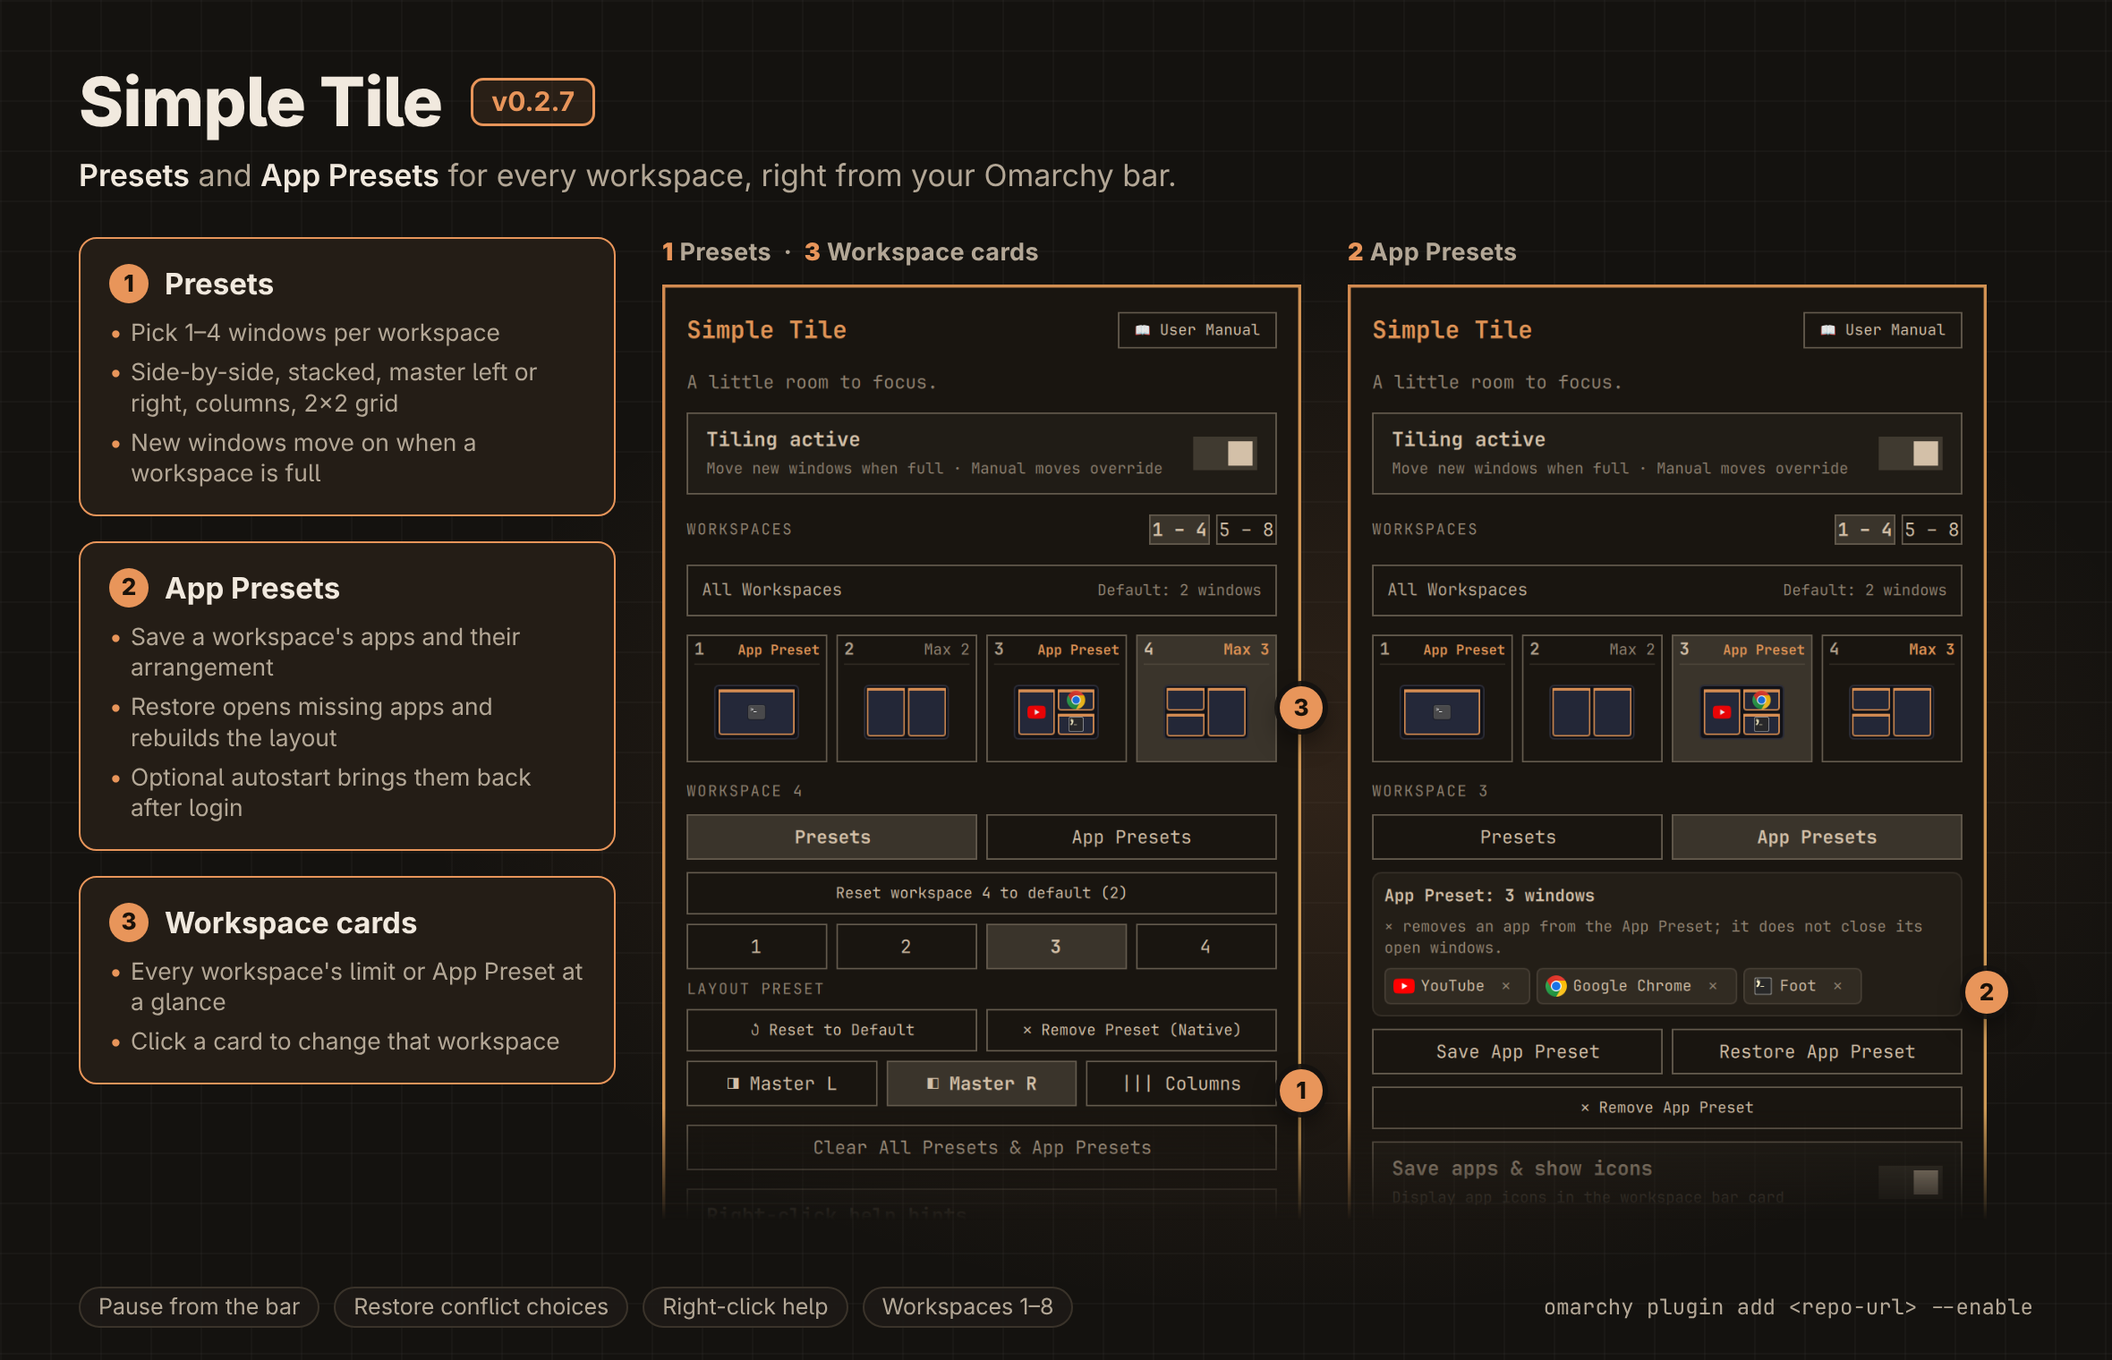
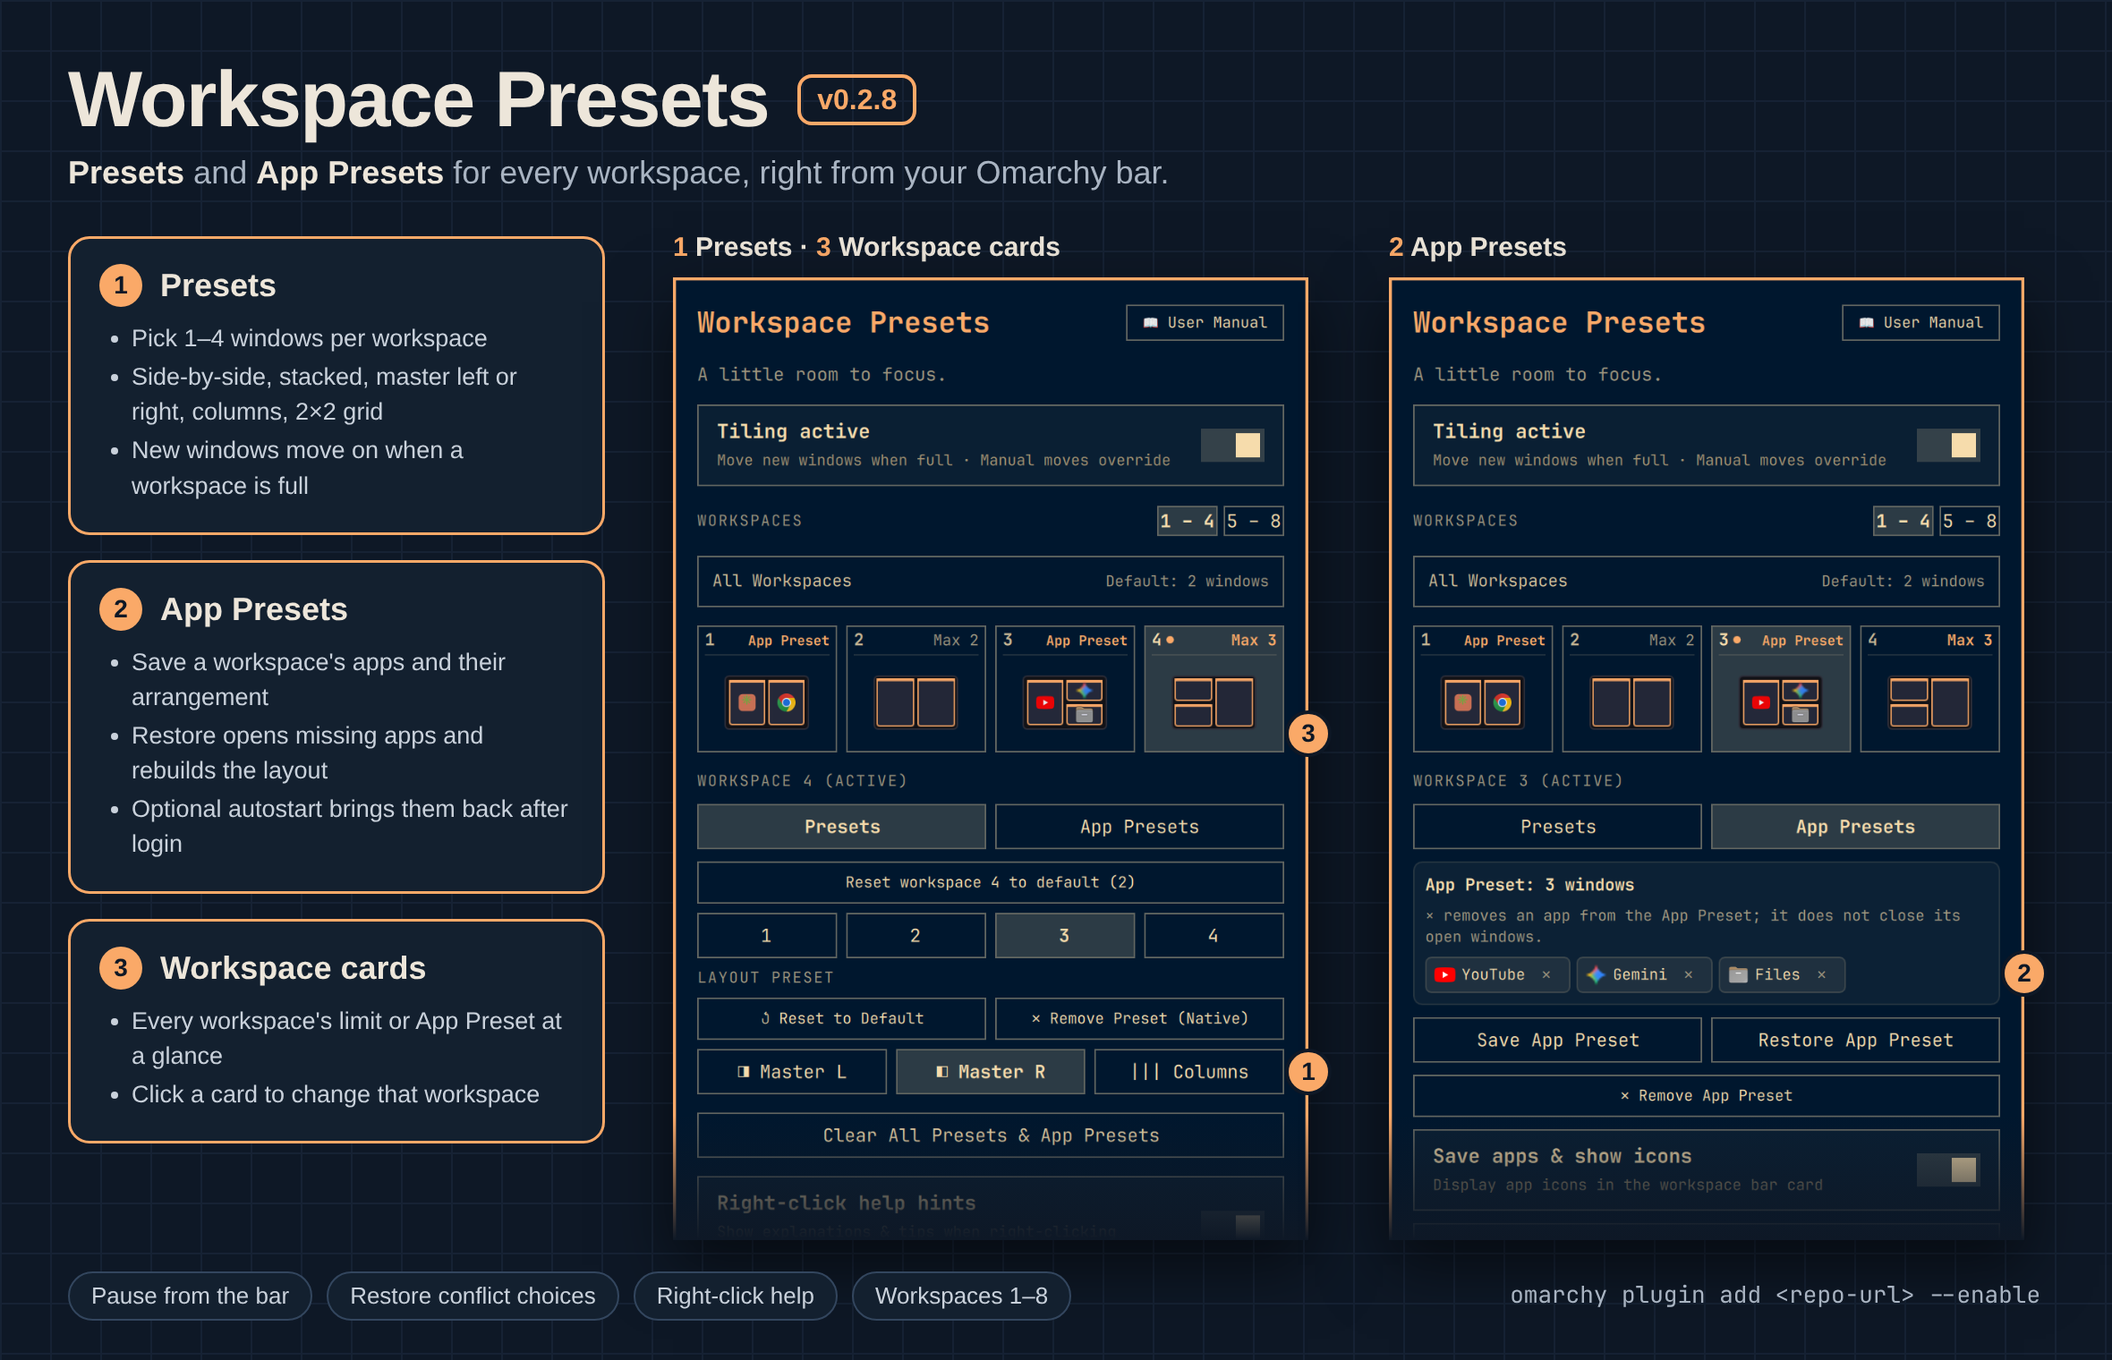
Rename Simple Tile to Workspace Presets (0.2.8)
The plugin does more than tiling (window limits, layouts and App
Presets), so the display name now says so. New preview from real
screenshots, redrawn banner. The plugin ID, install path and saved
settings are unchanged.

diff --git a/BarWidget.qml b/BarWidget.qml
@@ -842,7 +842,7 @@ ShellUi.BarWidget {
                     if (root.failed) root.lastMessage = "Could not move the window. Check the shell log."
                     else if (result.status === "moved") root.lastMessage = "Last move: workspace " + result.source + " → " + result.target
                     else if (result.status === "manual") root.lastMessage = "Workspace " + result.workspace + " is using App Presets."
-                    if (root.failed) console.warn("Simple Tile:", result.message)
+                    if (root.failed) console.warn("Workspace Presets:", result.message)
                 } catch (error) {
                     root.failed = true
                     root.lastMessage = "The window helper returned an invalid response."
@@ -1224,20 +1224,20 @@ ShellUi.BarWidget {
         dimmed: !root.tilingActive
         tooltipText: {
             if (root.currentBarIconMode === 1) {
-                return "Simple Tile · 1. Disabled (Paused)\nClick for settings · Right-click to resume"
+                return "Workspace Presets · 1. Disabled (Paused)\nClick for settings · Right-click to resume"
             }
             if (root.currentBarIconMode === 2) {
-                return "Simple Tile · 2. Enabled (No preset defined)\nWorkspace " + root.currentWsId + ": Native tiling\nClick for settings · Right-click to pause"
+                return "Workspace Presets · 2. Enabled (No preset defined)\nWorkspace " + root.currentWsId + ": Native tiling\nClick for settings · Right-click to pause"
             }
             if (root.currentBarIconMode === 3) {
-                return "Simple Tile · 3. Enabled with defined presets\nWorkspace " + root.currentWsId + ": " + root.autoPresetLabel(root.autoPresetForWorkspace(root.currentWsId)) + " (" + root.capForWorkspace(root.currentWsId) + " windows limit)\nClick for settings · Right-click to pause"
+                return "Workspace Presets · 3. Enabled with defined presets\nWorkspace " + root.currentWsId + ": " + root.autoPresetLabel(root.autoPresetForWorkspace(root.currentWsId)) + " (" + root.capForWorkspace(root.currentWsId) + " windows limit)\nClick for settings · Right-click to pause"
             }
             // Mode 4: Autostart ON
             var appCount4 = root.savedAppsFor(root.currentWsId).length
             var status4 = root.isWorkspaceManual(root.currentWsId)
                 ? ("Workspace " + root.currentWsId + ": App Presets active" + (appCount4 > 0 ? " (" + appCount4 + " apps saved)" : ""))
                 : ("Workspace " + root.currentWsId + ": " + (root.currentWsHasDefinedPreset ? ("Preset " + root.autoPresetLabel(root.autoPresetForWorkspace(root.currentWsId))) : "Native tiling") + " · App Preset autostart active")
-            return "Simple Tile · 4. Enabled with App Preset Autostart (● dot)\n" + status4 + "\nClick for settings · Right-click to pause"
+            return "Workspace Presets · 4. Enabled with App Preset Autostart (● dot)\n" + status4 + "\nClick for settings · Right-click to pause"
         }
         onPressed: function(mouseButton) {
             if (mouseButton === Qt.RightButton) root.updateSetting("active", !root.tilingActive)
@@ -1276,7 +1276,7 @@ ShellUi.BarWidget {
                 Text {
                     anchors.left: parent.left
                     anchors.verticalCenter: parent.verticalCenter
-                    text: "Simple Tile"
+                    text: "Workspace Presets"
                     color: Theme.Color.accent
                     font.family: Theme.Style.font.family
                     font.pixelSize: Theme.Style.font.title
@@ -1294,7 +1294,7 @@ ShellUi.BarWidget {
                     selected: root.showManualView
                     onClicked: root.showManualView = !root.showManualView
                     onRightClicked: root.showHint("User Manual", "Open the comprehensive plugin manual with full explanations of Presets, App Presets, Autostart, and Conflict handling.", "Tip: Left-click to view the manual directly in this panel.")
-                    tooltipText: "Open or close the integrated Simple Tile User Manual"
+                    tooltipText: "Open or close the integrated Workspace Presets User Manual"
                 }
             }
 
@@ -1317,7 +1317,7 @@ ShellUi.BarWidget {
                 MouseArea {
                     anchors.fill: parent
                     acceptedButtons: Qt.RightButton
-                    onClicked: root.showHint("Tiling Active Toggle", "Temporarily pause or resume Simple Tile's automatic window movement without losing any saved presets.", "Tip: You can also right-click the bar icon anytime to toggle this.")
+                    onClicked: root.showHint("Tiling Active Toggle", "Temporarily pause or resume Workspace Presets' automatic window movement without losing any saved presets.", "Tip: You can also right-click the bar icon anytime to toggle this.")
                 }
             }
 
@@ -2981,7 +2981,7 @@ ShellUi.BarWidget {
                         }
                         Text {
                             width: parent.width
-                            text: "• Right-click any button or control to display instant help and handling tips.\n• Right-click the bar icon to pause or resume Simple Tile.\n• Left-click the bar icon to toggle this settings panel.\n• Right-click hints can be toggled on/off in the settings below."
+                            text: "• Right-click any button or control to display instant help and handling tips.\n• Right-click the bar icon to pause or resume Workspace Presets.\n• Left-click the bar icon to toggle this settings panel.\n• Right-click hints can be toggled on/off in the settings below."
                             color: Color.foreground
                             opacity: 0.85
                             font.family: Style.font.family

diff --git a/simple_tile.py b/simple_tile.py
@@ -625,7 +625,7 @@ def send_notification(title, body, urgency="normal"):
     if shutil.which("notify-send"):
         try:
             subprocess.Popen(
-                ["notify-send", "-a", "Simple Tile", "-u", urgency, title, body],
+                ["notify-send", "-a", "Workspace Presets", "-u", urgency, title, body],
                 stdout=subprocess.DEVNULL,
                 stderr=subprocess.DEVNULL,
                 start_new_session=True,
@@ -1002,7 +1002,7 @@ def _restore_workspace(ws_id, dry_run=False, conflict_action="ask"):
                     hypr("eval", move_expression(c["address"], next_free, False))
                 names = [c.get("class") or c.get("initialClass") or "Window" for c in extra_on_ws]
                 send_notification(
-                    "Simple Tile",
+                    "Workspace Presets",
                     "Moved %d window(s) (%s) from Workspace %d to Workspace %d" %
                     (len(extra_on_ws), ", ".join(names), ws_id, next_free)
                 )

diff --git a/MANUAL.md b/MANUAL.md
@@ -1,19 +1,19 @@
-# Simple Tile — User Manual
+# Workspace Presets — User Manual
 
-Simple Tile provides smart, calm window management for Hyprland on Omarchy. It prevents workspaces from becoming cluttered by giving your windows room to focus.
+Workspace Presets provides smart, calm window management for Hyprland on Omarchy. It prevents workspaces from becoming cluttered by giving your windows room to focus.
 
 ---
 
 ## 1. Core Concepts
 
-Simple Tile operates in two distinct modes for your workspaces:
+Workspace Presets operates in two distinct modes for your workspaces:
 
 | Mode | Purpose | Window Overflow Behavior |
 | :--- | :--- | :--- |
 | **Presets** *(Automatic)* | Dynamic daily workflow with geometric layouts. | When the window limit is reached, newly opened windows **automatically move** to the next free workspace. |
 | **App Presets** *(Manual)* | Dedicated app suites (e.g. coding, communications, media). | **Automatic moves are disabled**. Saved layouts are retained until you save again; restore rebuilds supported arrangements. |
 
-> **User Precedence**: Manually moving windows with keybindings (e.g. `Super+Shift+2`) intentionally overrides window limits. Simple Tile only routes *newly launched* windows on overflow and always follows the moved window to its new workspace.
+> **User Precedence**: Manually moving windows with keybindings (e.g. `Super+Shift+2`) intentionally overrides window limits. Workspace Presets only routes *newly launched* windows on overflow and always follows the moved window to its new workspace.
 
 ---
 
@@ -58,8 +58,8 @@ Click **Presets** to resume the configured geometric layout (or the default) and
 App Presets let you turn any workspace into a dedicated, persistent workstation:
 
 1. **Arrange your Apps**: Open your desired applications and position them on the workspace (tiled or floating).
-2. **Save Preset**: In the popup panel under **App Presets**, click **Save App Preset**. Simple Tile captures window coordinates, sizes, desktop entries, and commands.
-3. **Restore Preset**: Click **Restore App Preset** anytime. Simple Tile relaunches any missing applications and rebuilds their saved tile arrangement and proportions. Floating windows regain their saved position and size.
+2. **Save Preset**: In the popup panel under **App Presets**, click **Save App Preset**. Workspace Presets captures window coordinates, sizes, desktop entries, and commands.
+3. **Restore Preset**: Click **Restore App Preset** anytime. Workspace Presets relaunches any missing applications and rebuilds their saved tile arrangement and proportions. Floating windows regain their saved position and size.
 4. **Remove Apps from Preset**: Click the `✕` on an application's chip to remove it from the preset (this does not close your open window).
 5. **Autostart on Login**: **Autostart on session startup** is enabled by default for new App Presets. Leave it enabled to launch your saved workstation automatically whenever you log into Omarchy.
 
@@ -67,7 +67,7 @@ App Presets let you turn any workspace into a dedicated, persistent workstation:
 
 ## 5. Conflict Resolution on Restore
 
-When you click **Restore App Preset** on a workspace that already has open windows, Simple Tile detects extraneous windows that are not part of the saved preset. You are presented with clear choices:
+When you click **Restore App Preset** on a workspace that already has open windows, Workspace Presets detects extraneous windows that are not part of the saved preset. You are presented with clear choices:
 
 ```
 ┌─────────────────────────────────────────────────────────────┐
@@ -99,7 +99,7 @@ When you click **Restore App Preset** on a workspace that already has open windo
 
 ## 6. Right-Click Help & Handling Hints
 
-Every button and control in Simple Tile supports contextual right-click assistance:
+Every button and control in Workspace Presets supports contextual right-click assistance:
 
 - **Right-Click Any Control**: Workspace cards, tab buttons, window limit caps, layout presets, save/restore buttons, and options display a guidance card explaining what the control does, when to use it, and helpful workflow tips.
 - **Dismissing Hints**: Click the `✕` button on the hint card to dismiss it.
@@ -109,7 +109,7 @@ Every button and control in Simple Tile supports contextual right-click assistan
 
 ## 7. Bar Widget & Shortcuts
 
-- **Left-Click Bar Icon**: Opens or closes the Simple Tile settings panel.
+- **Left-Click Bar Icon**: Opens or closes the Workspace Presets settings panel.
 - **Right-Click Bar Icon**: Instantly pauses or resumes automatic tiling without opening the panel.
 - **Escape**: Closes the popup panel.
 

diff --git a/README.md b/README.md
@@ -1,6 +1,6 @@
-# Simple Tile
+# Workspace Presets
 
-![Simple Tile — a little room to focus](docs/banner.svg)
+![Workspace Presets — a little room to focus](docs/banner.svg)
 
 **Presets and App Presets for every workspace, right from your Omarchy bar.**
 
@@ -11,7 +11,7 @@
   Restore opens any missing apps and rebuilds the layout, with one click or
   automatically after login.
 
-![Simple Tile popup showing the Presets tab with layout choices and the App Presets tab with saved apps](preview.png)
+![Workspace Presets popup showing the Presets tab with layout choices and the App Presets tab with saved apps](preview.png)
 
 - **Room to focus:** set a limit of 1–4 windows globally or per workspace.
   New overflow windows move forward to a workspace with room; focus follows.
@@ -27,13 +27,13 @@
   right-click help, and a right-click pause button on the bar.
 
 See the [user manual](MANUAL.md) for controls and workflows, and the
-[0.2.6 release notes](CHANGELOG.md) for what changed.
+[0.2.8 release notes](CHANGELOG.md) for what changed.
 
 ## Install
 
 Requires **Omarchy with the Quickshell plugin system**, Python 3.10+, and
 **Hyprland 0.56.2 with its Lua dispatch API**. Older Waybar-based Omarchy
-installations are not supported. This is an early `0.2.7` release.
+installations are not supported. This is an early `0.2.8` release.
 App launching uses saved argument lists or `uwsm-app` for desktop files;
 PyGObject/GioUnix is an optional fallback. No pip installation is required.
 
@@ -62,10 +62,10 @@ geometric preset can rearrange the current workspace.
 **Manual moves override the limit:** Manually moving a window to another
 workspace (for example, using `Super+Shift+2` or dragging) intentionally
 overrides the workspace window limit without being redirected. This is fully
-intended: Simple Tile manages incoming overflow when windows first open,
+intended: Workspace Presets manages incoming overflow when windows first open,
 but always respects your manual arrangements and never fights your manual moves.
 
-Simple Tile scans higher-numbered workspaces on the source monitor for room.
+Workspace Presets scans higher-numbered workspaces on the source monitor for room.
 Each workspace respects either its specific limit or the global default limit.
 If candidate workspaces on that monitor are full, it chooses a new number after
 that monitor's highest workspace, skipping IDs already used on other monitors.
@@ -79,9 +79,9 @@ slots; tabbed/grouped layouts are deliberately not automatically redistributed.
 
 ## Presets vs App Presets
 
-Simple Tile supports two modes for your workspaces:
+Workspace Presets supports two modes for your workspaces:
 
-- **Presets (Default):** Set a window limit (1–4 windows) globally or per workspace, and choose from geometric layout presets (Side-by-Side, Stacked, Master-Left, Master-Right, Columns, 2×2 Grid, or Native). When a new window opens and exceeds the limit, Simple Tile automatically moves it to the next workspace on your monitor.
+- **Presets (Default):** Set a window limit (1–4 windows) globally or per workspace, and choose from geometric layout presets (Side-by-Side, Stacked, Master-Left, Master-Right, Columns, 2×2 Grid, or Native). When a new window opens and exceeds the limit, Workspace Presets automatically moves it to the next workspace on your monitor.
 - **App Presets:** Select any workspace, open and arrange your apps according to your preferences, then click **Save App Preset**:
   - **Layout Snapshots:** Captures window geometry, count, and arrangement.
   - **App Icons:** Optionally save the opened applications and display their real application icons directly inside the workspace card in the bar popup.

diff --git a/MARKETPLACE.md b/MARKETPLACE.md
@@ -1,10 +1,10 @@
-# Simple Tile — marketplace description
+# Workspace Presets — marketplace description
 
 **Presets and App Presets for every workspace, right from your bar.**
 
-![Simple Tile popup showing the Presets and App Presets tabs](preview.png)
+![Workspace Presets popup showing the Presets and App Presets tabs](preview.png)
 
-Simple Tile brings comfortable tiling and repeatable workspaces to your Omarchy
+Workspace Presets brings comfortable tiling and repeatable workspaces to your Omarchy
 bar. Choose how many windows belong together, pick a layout, and let newly
 opened overflow windows move to the next workspace with room. Your manual
 window moves always take precedence.
@@ -34,7 +34,7 @@ pixel sizes, and apps that cannot open another window may time out.
 ## Listing metadata
 
 - Plugin ID: `ubruckhaus.simple-tile`
-- Version: `0.2.7`
+- Version: `0.2.8`
 - Author: Uwe Bruckhaus
 - Category: Desktop
 - Tags: workspaces, hyprland, bar

diff --git a/CHANGELOG.md b/CHANGELOG.md
@@ -1,5 +1,9 @@
 # Release notes
 
+## 0.2.8 — 2026-10-10
+
+- Simple Tile is now called **Workspace Presets**: it does more than tiling (window limits, layouts and App Presets). The plugin ID, install path and saved settings stay the same.
+
 ## 0.2.7 — 2026-10-04
 
 - Rebuild the preview image from real screenshots of the Presets and App Presets tabs.
